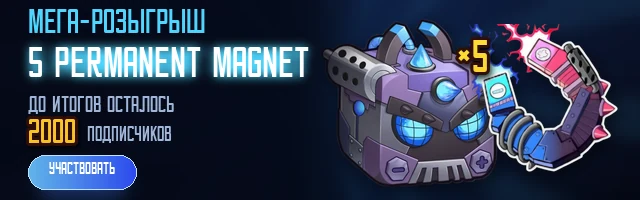
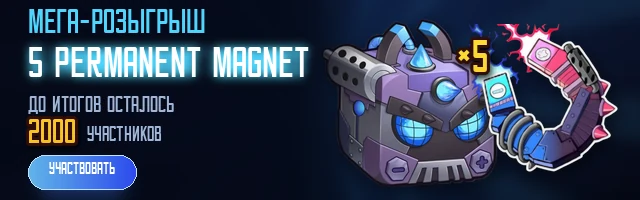
feat(promo): в счётчике розыгрыша участники вместо подписчиков
Единица счётчика в макетах и в тексте объявления сменилась: считаем
участников розыгрыша, а не подписчиков канала.

* COUNT_UNIT в генераторе и все четыре макета assets/promo/giveaway-*.webp
  перерисованы под новое слово. Строка на узком доке по-прежнему влезает:
  ужимается она целиком, числом и единицей сразу.
* promo.giveawayText в обоих словарях приведён к той же цифре и тому же
  слову, что нарисованы на макете, — расхождение текста и картинки читается
  как ошибка.
* Версия i18n.js поднята, иначе словарь приедет из кеша.

Проверка: php-тесты (25 файлов) и node-тесты (8 файлов) зелёные,
tools/check-giveaway-ui.mjs — 18 проверок, всё зелёное.

Changed region(s): [[0.125, 0.63, 0.2812, 0.72]]

diff --git a/public_html/js/i18n.js b/public_html/js/i18n.js
@@ -224,7 +224,7 @@
       "promo.houseTgText":      "Свежие цены, розыгрыши и новости Blox Fruits — в нашем телеграм-канале",
       "promo.houseTgCta":       "Открыть канал",
 
-      "promo.giveawayText":     "Розыгрыш в честь Update 30: 5 permanent Magnet. До итогов осталось 2000 подписчиков",
+      "promo.giveawayText":     "Розыгрыш в честь Update 30: 5 permanent Magnet. До итогов осталось 2000 участников",
       "promo.giveawayCta":      "Участвовать",
       "promo.playerokText":     "Фрукты, мутации, скины и донат — по лучшим ценам на Playerok",
       "promo.playerokCta":      "Перейти на Playerok",
@@ -658,7 +658,7 @@
       "promo.cta":              "Open",
       "promo.houseTgText":      "Fresh prices, giveaways and Blox Fruits news — in our Telegram channel",
       "promo.houseTgCta":       "Open the channel",
-      "promo.giveawayText":     "Update 30 giveaway: 5 permanent Magnet. 2000 subscribers to go",
+      "promo.giveawayText":     "Update 30 giveaway: 5 permanent Magnet. 2000 participants to go",
       "promo.giveawayCta":      "Enter the giveaway",
       "promo.playerokText":     "Fruits, mutations, skins and top-ups at the best prices on Playerok",
       "promo.playerokCta":      "Go to Playerok",

diff --git a/tools/make-giveaway-creatives.py b/tools/make-giveaway-creatives.py
@@ -63,7 +63,7 @@ T_PRIZE2 = ["5 PERMANENT", "MAGNET"]
 T_COUNT_LEAD = "ДО ИТОГОВ ОСТАЛОСЬ"
 T_COUNT_LEAD2 = ["ДО ИТОГОВ", "ОСТАЛОСЬ"]
 COUNT = "2000"
-COUNT_UNIT = "ПОДПИСЧИКОВ"
+COUNT_UNIT = "УЧАСТНИКОВ"
 T_BTN = "УЧАСТВОВАТЬ"
 
 
@@ -191,7 +191,7 @@ def count_lead(img, xy, max_w, px, anchor="lm"):
 
 
 def count_value(img, x, y, max_w, num_px, unit_px, center=False):
-    """«2000 ПОДПИСЧИКОВ»: число золотом, единица — приглушённым текстом.
+    """«2000 УЧАСТНИКОВ»: число золотом, единица — приглушённым текстом.
 
     Строка ужимается целиком: если ужать только число, единица уедет за край
     колонки, а если только единицу — она станет нечитаемой раньше числа.

diff --git a/public_html/news.php b/public_html/news.php
@@ -355,7 +355,7 @@ $robots = $notFound ? 'noindex, follow' : 'index, follow, max-image-preview:larg
 <?php if ($linkedPostId !== null): ?>
   <script>window.NX_LINKED_POST_ID = <?= (int)$linkedPostId ?>;</script>
 <?php endif; ?>
-  <script src="js/i18n.js?v=38"></script>
+  <script src="js/i18n.js?v=39"></script>
   <script src="js/news.js?v=5"></script>
   <script src="js/news-blocks.js?v=2"></script>
 

diff --git a/public_html/index.php b/public_html/index.php
@@ -537,7 +537,7 @@ if (!defined('TESTING') && !defined('NX_ADMIN_RENDER')) {
 
   <script>window.NX_REV = <?= (int)$nxRev ?>;</script>
 <?php endif; ?>
-  <script src="js/i18n.js?v=38"></script>
+  <script src="js/i18n.js?v=39"></script>
   <script src="js/content.js?v=3"></script>
   <script src="js/tiers.js?v=2"></script>
 

diff --git a/public_html/calculator.php b/public_html/calculator.php
@@ -414,7 +414,7 @@ header('Cache-Control: no-cache, must-revalidate');
     </div>
   </div>
 
-  <script src="js/i18n.js?v=38"></script>
+  <script src="js/i18n.js?v=39"></script>
   <script src="js/promo.js?v=9"></script>
 
   <script src="js/promo-dock.js?v=5"></script>

diff --git a/public_html/home.php b/public_html/home.php
@@ -353,7 +353,7 @@ header('Cache-Control: no-cache, must-revalidate');
     </p>
 </footer>
 
-<script src="js/i18n.js?v=38"></script>
+<script src="js/i18n.js?v=39"></script>
 <script src="js/home.js?v=5"></script>
 </body>
 </html>
